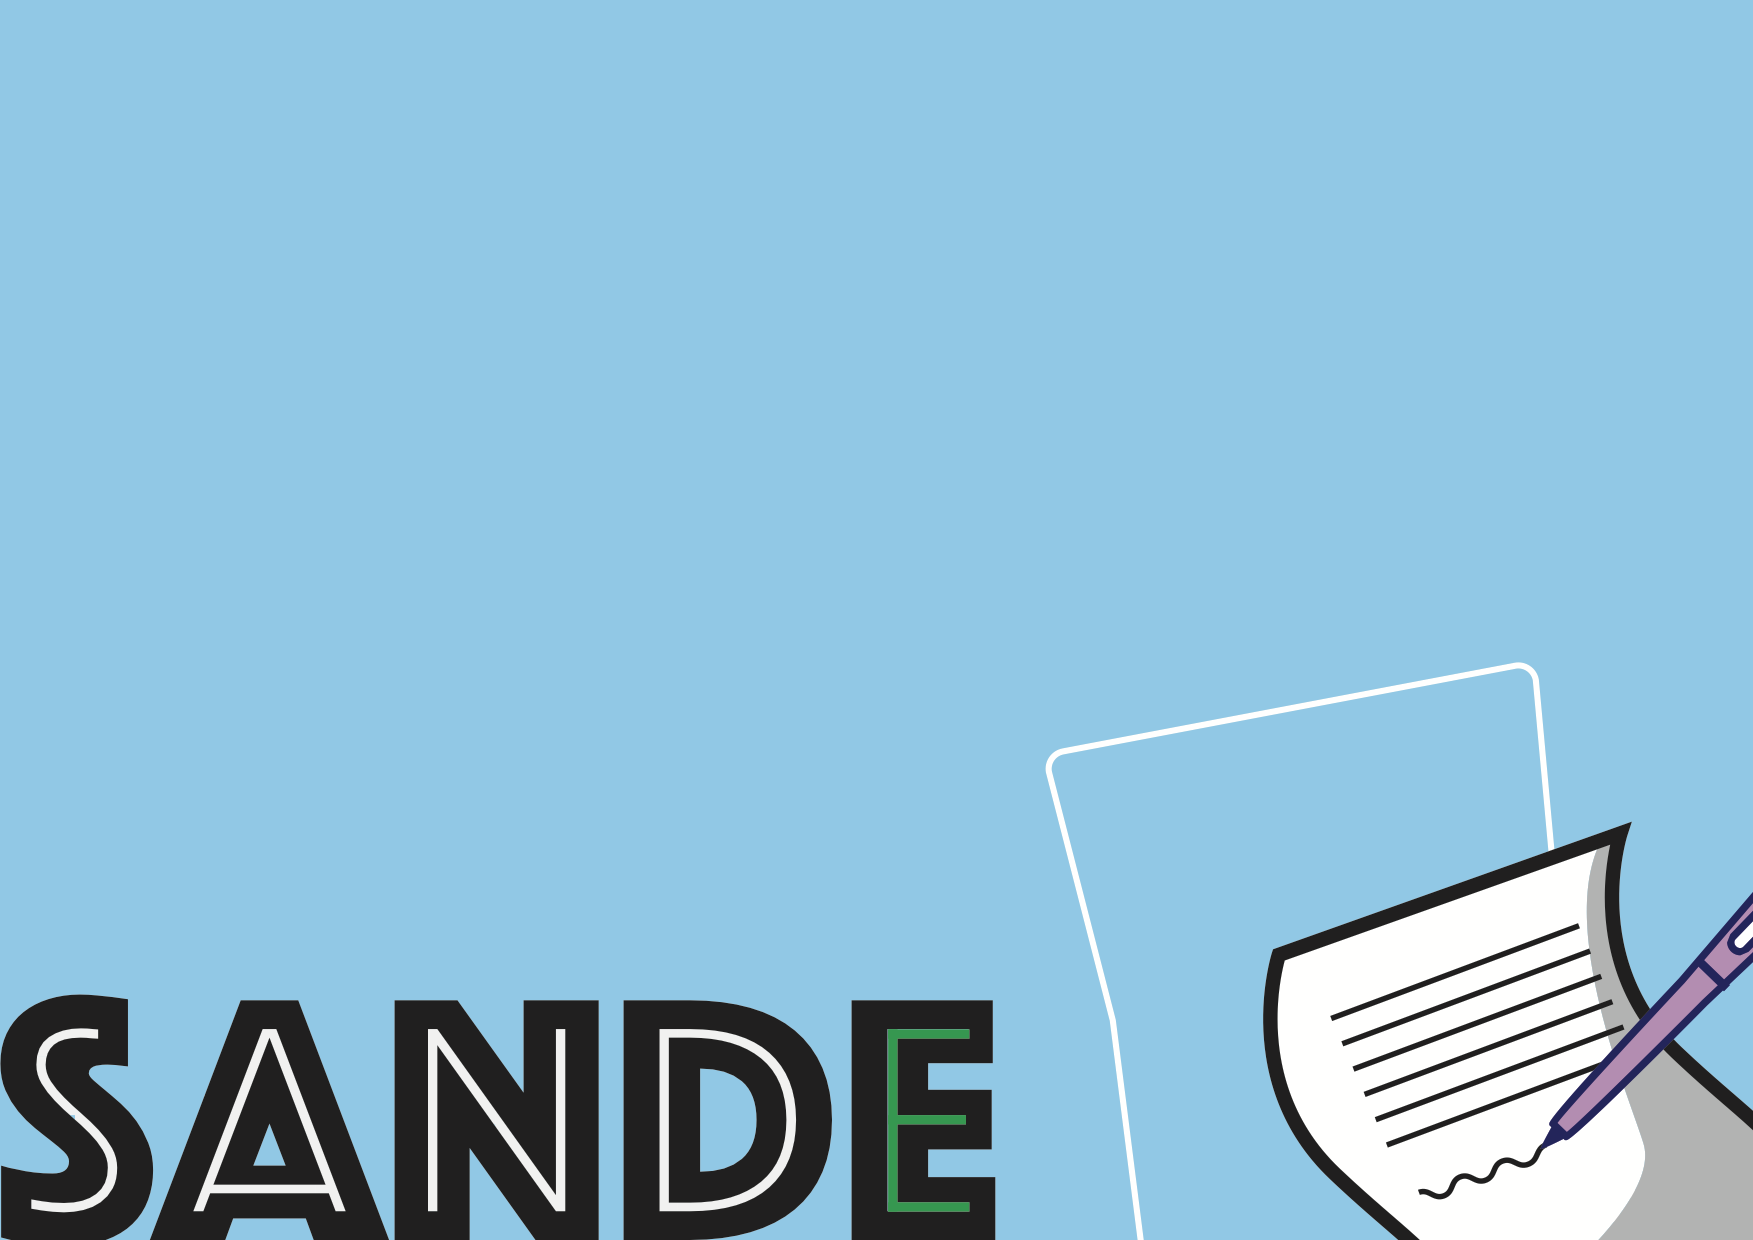
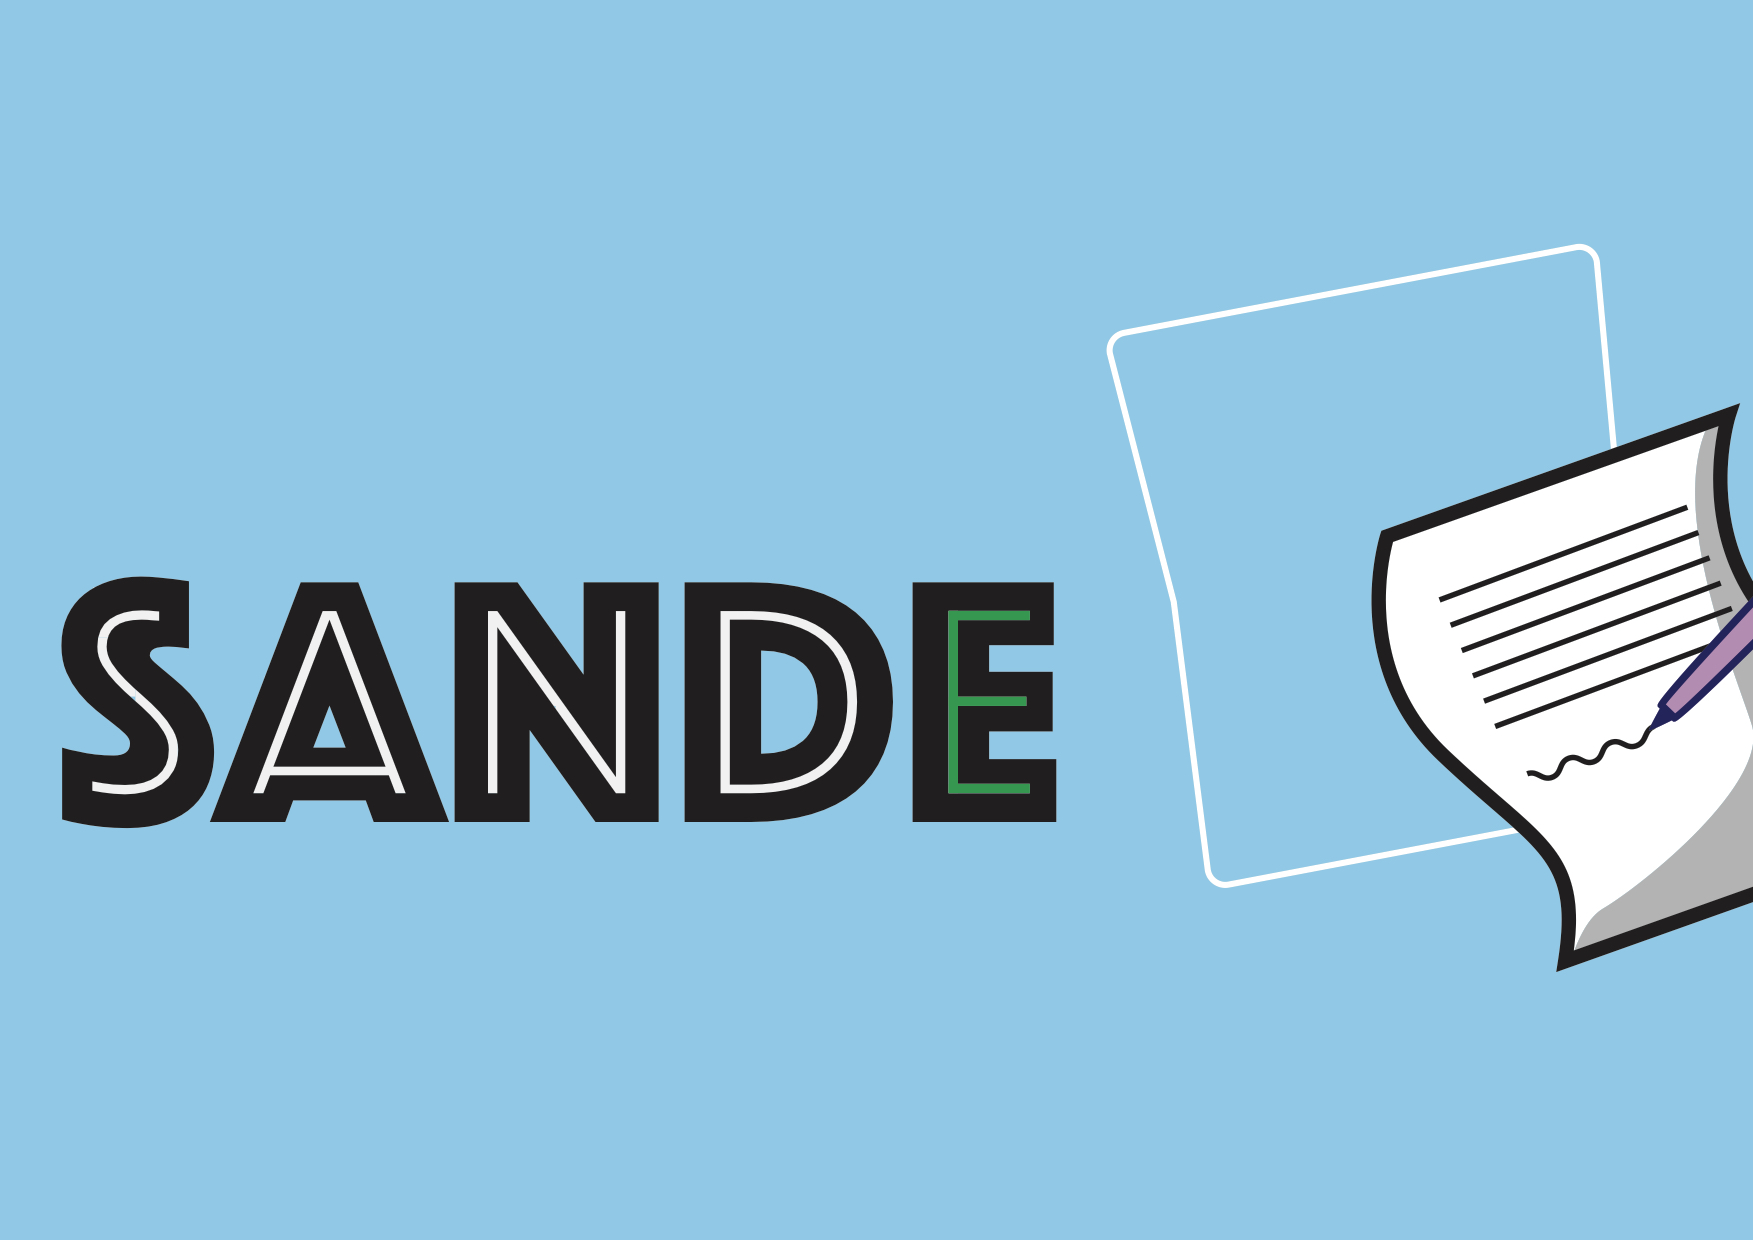
portada actualizada, cambios en matricula alumnos

diff --git a/static/pages/MatricularAlumnos.html b/static/pages/MatricularAlumnos.html
@@ -31,6 +31,8 @@
 
     <!-- Data Tables -->
     <link rel="stylesheet" type="text/css" href="https://cdn.datatables.net/1.10.19/css/jquery.dataTables.css">
+    <link rel="stylesheet" type="text/css" href="https://cdn.datatables.net/v/dt/dt-1.10.18/e-1.8.1/b-1.5.4/sl-1.2.6/datatables.min.css"/>
+
 
     <!-- HTML5 Shim and Respond.js IE8 support of HTML5 elements and media queries -->
     <!-- WARNING: Respond.js doesn't work if you view the page via file:// -->
@@ -41,7 +43,9 @@
 
     <script type="text/javascript" charset="utf8" src="http://ajax.aspnetcdn.com/ajax/jQuery/jquery-1.8.2.min.js"></script>
   <script type="text/javascript" charset="utf8" src="http://ajax.aspnetcdn.com/ajax/jquery.dataTables/1.9.4/jquery.dataTables.min.js"></script>
-    <script type="text/javascript">
+  <script type="text/javascript" src="https://cdn.datatables.net/v/dt/dt-1.10.18/e-1.8.1/b-1.5.4/sl-1.2.6/datatables.min.js"></script>
+  
+  <script type="text/javascript">
 
     $(function(){
             var url = "/matriculaAlumno";
@@ -68,20 +72,20 @@
                 resul.push([""+arrayDeCadenas[i]+"",""+arrayDeCadenas[i+1]+"",""+arrayDeCadenas[i+2]+"",""+arrayDeCadenas[i+3]+"",""+arrayDeCadenas[i+4]+"",""+arrayDeCadenas[i+5]+""]);
                 i=i+6;
             }
-
-            //Cogemos el array de los cursos
             
             $('#tablaUsuarios').dataTable({
 
               "data": resul,
-  
+
               "aoColumnDefs":[
                 { "data" : "Nombre" },
                 { "data" : "Apellido 1" },
                 { "data" : "Apellido 2" },
                 { "data" : "Fecha de Nacimiento" },
                 { "data" : "Email" },
-                { "data" : "Curso"}
+                { 
+                    "data" : "Curso"
+                }
               ]
             });
         });
@@ -89,7 +93,7 @@
   })
 
 function prueba(){
-    var url = "/obtenerCursos";
+    var url = "/matriculaAlumnoSinCurso";
 
         $.get(url, {}, function(data){
             window.alert(data);

diff --git a/urlResponseHandlers.js b/urlResponseHandlers.js
@@ -17,6 +17,7 @@ exports.matriculaAlumno = matriculaAlumno;
 exports.obtenerCursos = obtenerCursos;
 exports.matriculaProfesor = matriculaProfesor;
 exports.matriculaTutor = matriculaTutor;
+exports.matriculaAlumnoSinCurso = matriculaAlumnoSinCurso;
 
 function loginApp(req, res){
 	var check = 0;
@@ -372,6 +373,27 @@ function matriculaAlumno(req, res){
 
     		rows.forEach((row) => {
     			arrayAlumnos.push(row.nombre_a+","+row.apellido1_a+","+row.apellido2_a+","+row.fecha_nac_a+","+row.email_a+","+row.ID_curso);
+  			});
+  			console.log(arrayAlumnos);
+  			res.write(""+arrayAlumnos);
+    		res.end();
+    	});
+	}); 	
+}
+
+function matriculaAlumnoSinCurso(req, res){
+	arrayAlumnos = new Array();
+	let db = new sqlite3.Database(dbPath, sqlite3.OPEN_READWRITE, (err)=>{
+		if(err){return console.error(err.message);}
+    	
+    	//Creamos la consulta
+    	let sql_alumnos = "SELECT nombre_a, apellido1_a, apellido2_a, fecha_nac_a, ID_curso, email_a FROM alumno WHERE ID_curso='"+0+"'";
+    
+    	db.all(sql_alumnos, (err, rows)=>{
+    		if (err){throw err;}
+
+    		rows.forEach((row) => {
+    			arrayAlumnos.push(row.nombre_a+","+row.apellido1_a+","+row.apellido2_a+","+row.fecha_nac_a+","+row.email_a);
   			});
   			console.log(arrayAlumnos);
   			res.write(""+arrayAlumnos);

diff --git a/Server.js b/Server.js
@@ -62,4 +62,10 @@ app.get('/matriculaTutor', function(req, res) {
 	controller.dispatch(urlResponseHandlers.matriculaTutor, req, res);
 });
 
+app.get('/matriculaAlumnoSinCurso', function(req, res) {
+	console.log("Obteniendo todos los alumnos sin curso");
+	controller.dispatch(urlResponseHandlers.matriculaAlumnoSinCurso, req, res);
+});
+
+
 app.listen(port, () => {console.log(`Proyecto fin de grado en marcha: port ${port}!`)})

diff --git a/static/pages/login.html b/static/pages/login.html
@@ -73,10 +73,9 @@
 
 </head>
 
-<body background="/SandeBackground.jpg">
-
     <div class="container">
         <div class="row">
+            <div style="position:fixed;right:0;bottom:0;"><img src="/img/SandeBackground.png" style="max-width: 50%;"/></div>
             <div class="col-md-4 col-md-offset-4">
                 <div class="login-panel panel panel-default">
                     <div class="panel-heading">

diff --git a/static/dist/css/sb-admin-2.css b/static/dist/css/sb-admin-2.css
@@ -5,9 +5,10 @@
  */
 body {
   /*background-color: #f8f8f8;*/
-  background-image: url("/img/SandeBackground.jpg");
+  background-color: #82D0E3;
+  /*background-image: url("/img/SandeBackground.jpg");
   background-repeat: no-repeat;
-  background-size: cover;
+  background-size: cover;*/
 }
 #wrapper {
   width: 100%;
